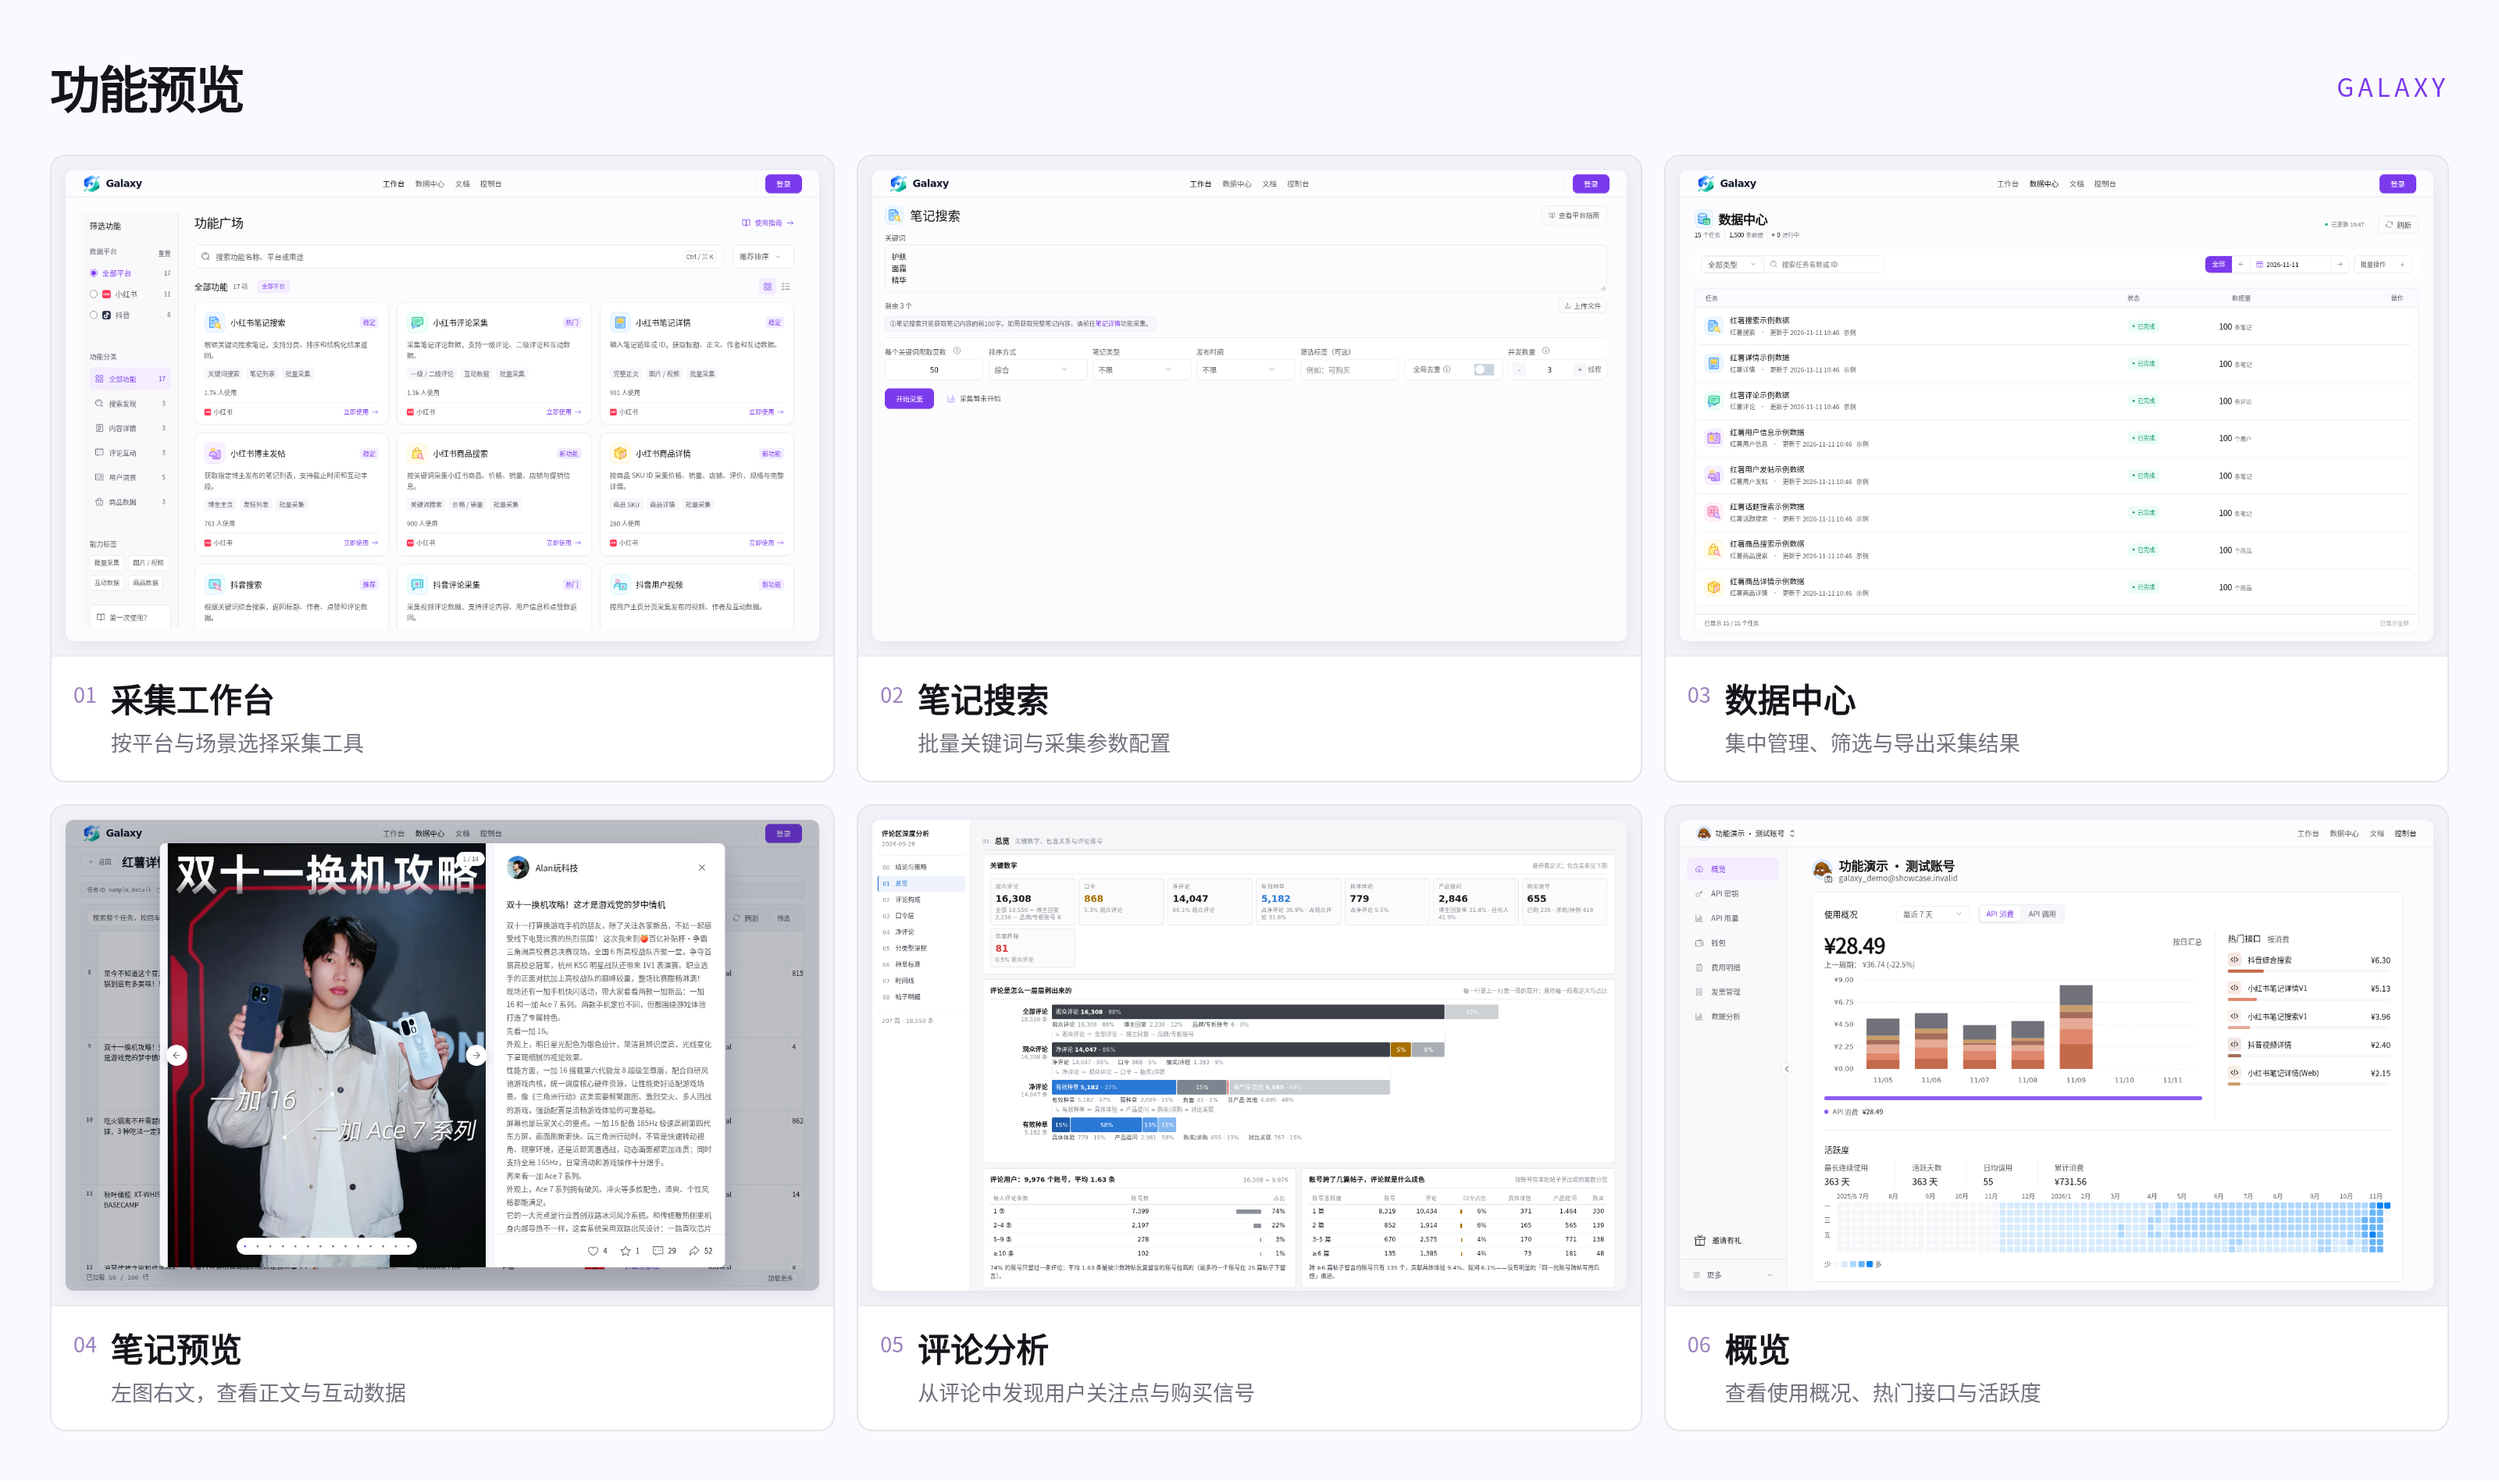
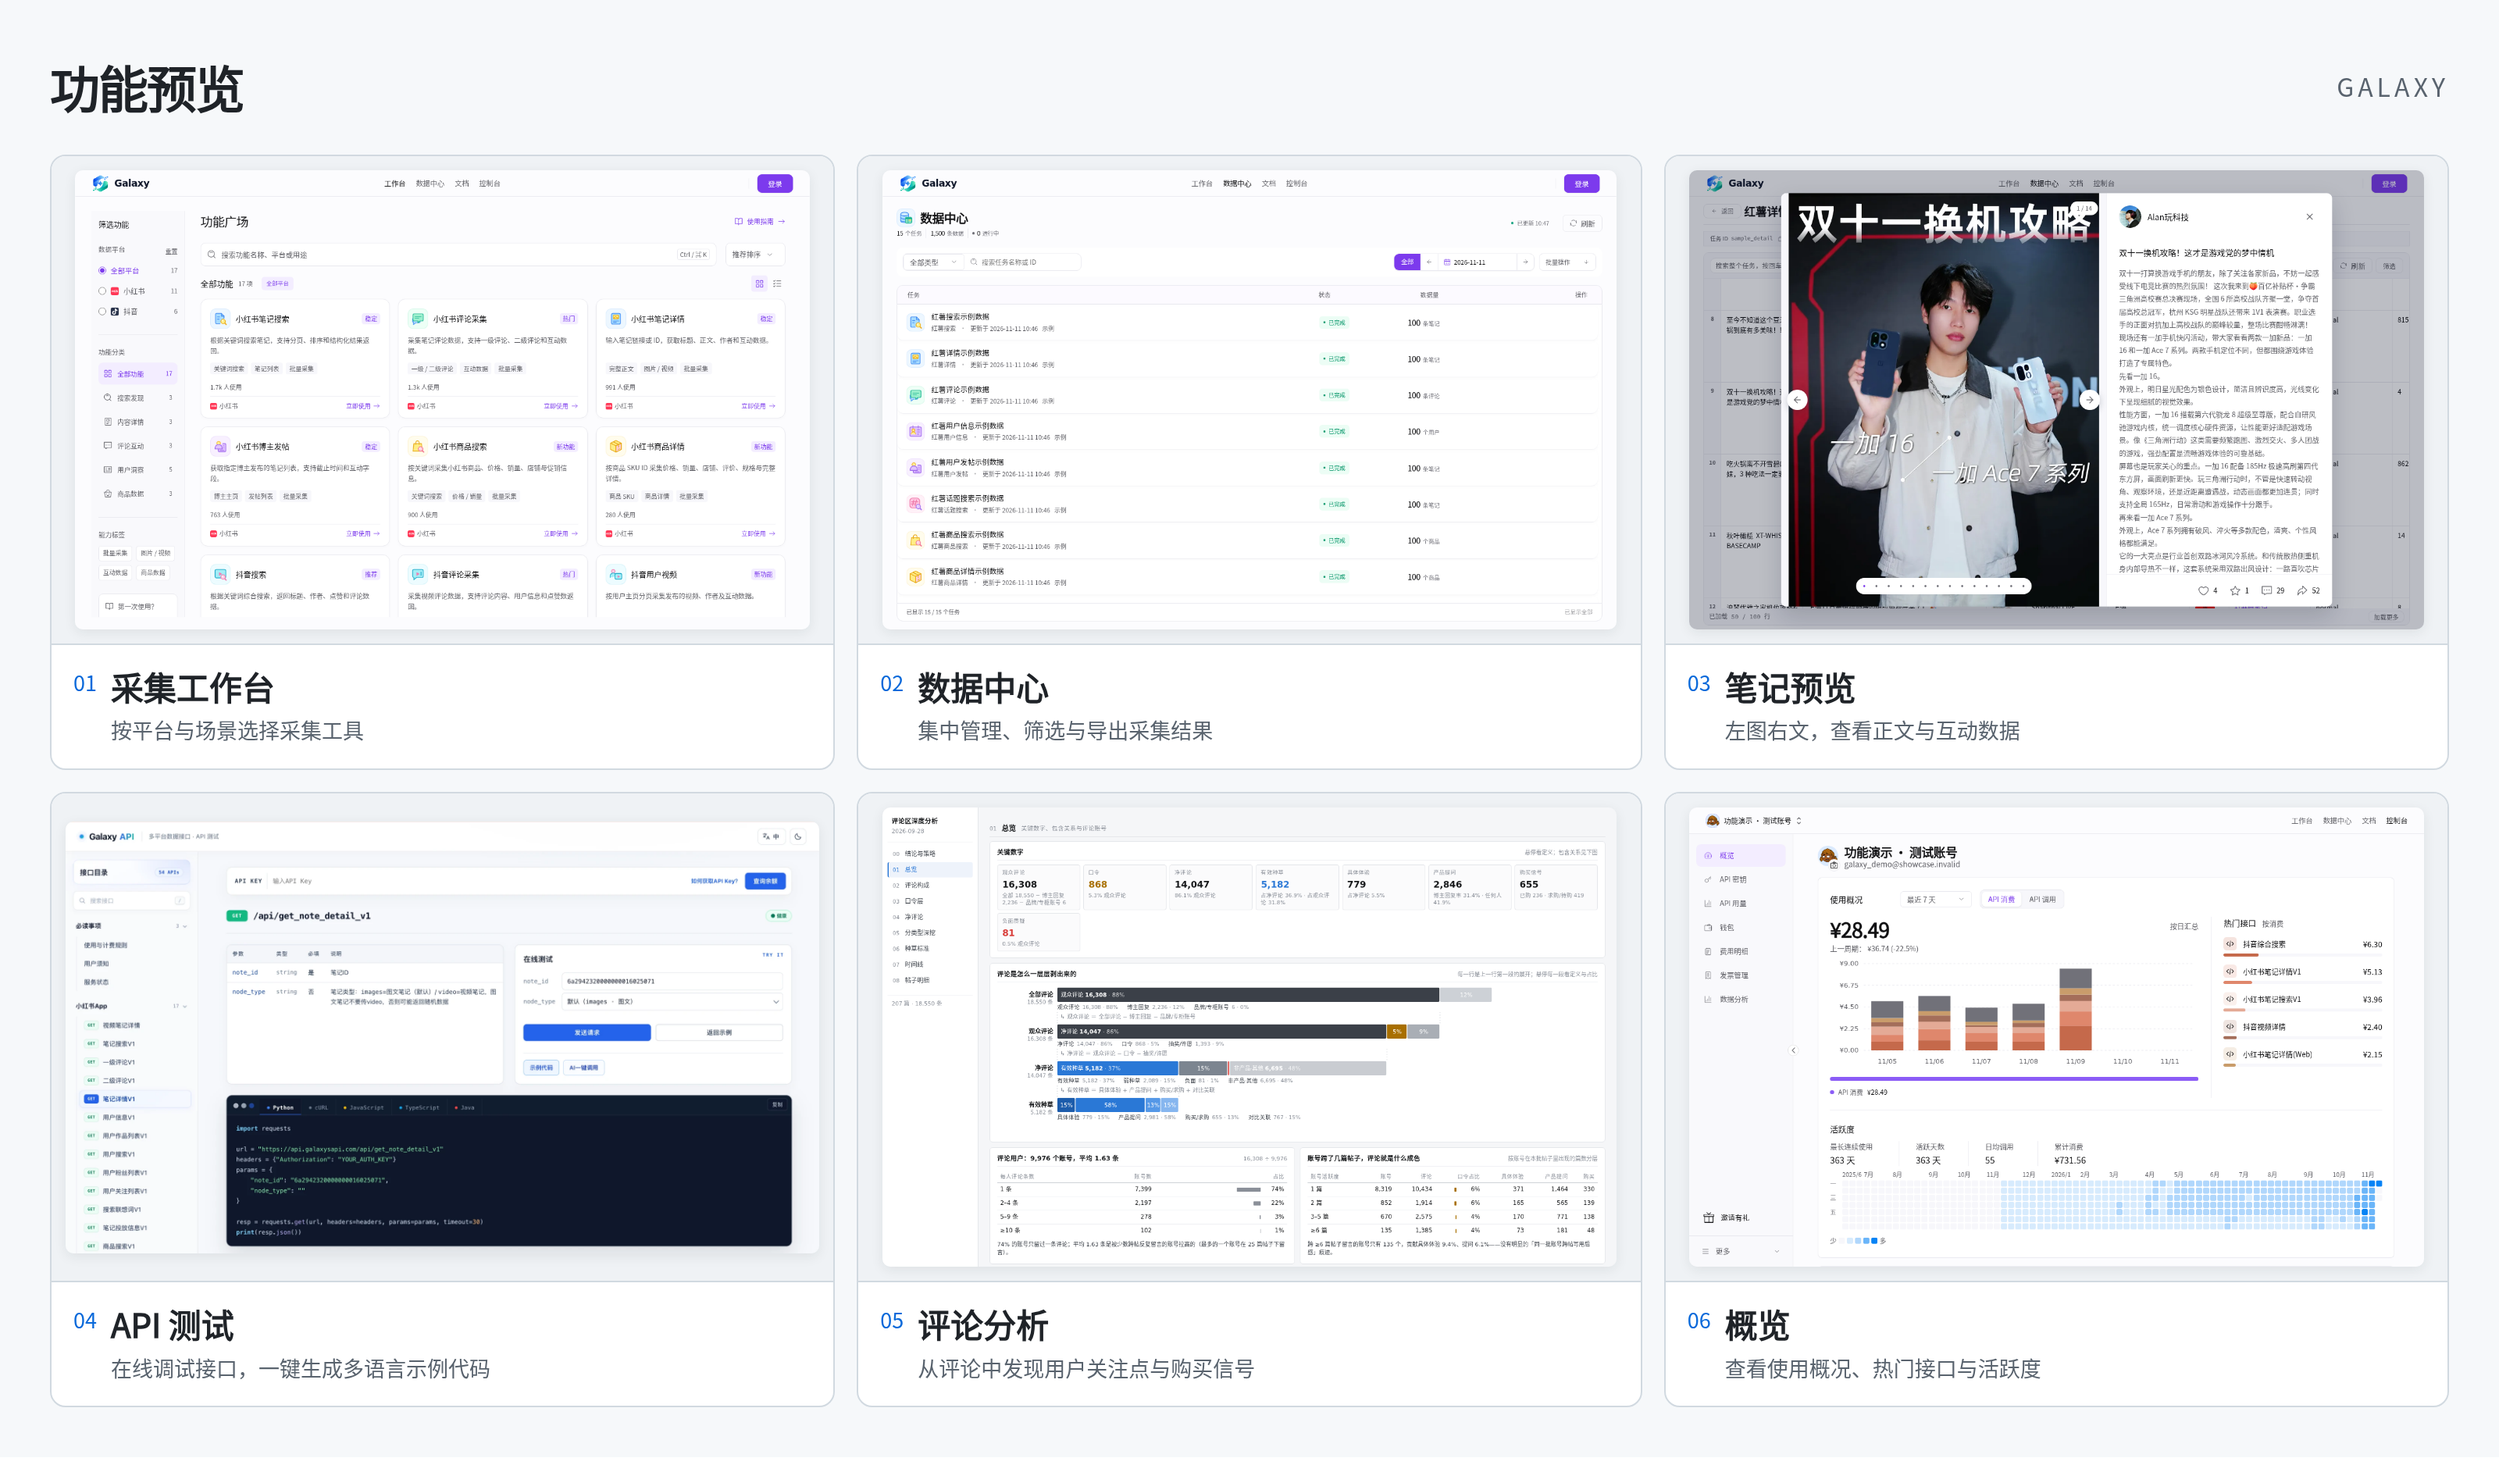
Replace note search panel with API test screenshot and reorder feature preview

diff --git a/README.en.md b/README.en.md
@@ -16,7 +16,7 @@
 
 ## 🖼 Product interface
 
-[![Galaxy API screenshots: workbench, note search, Data Center, note preview, comment analysis, overview](assets/screenshots/platform-overview.png)](assets/screenshots/platform-overview.png)
+[![Galaxy API screenshots: workbench, Data Center, note preview, API test, comment analysis, overview](assets/screenshots/platform-overview.png)](assets/screenshots/platform-overview.png)
 
 <sub>Production platform (Chinese UI). Data Center and note preview use public samples; the overview uses a demo account. <a href="docs/platform.md">Platform details →</a></sub>
 

diff --git a/README.md b/README.md
@@ -16,7 +16,7 @@
 
 ## 🖼 产品界面
 
-[![Galaxy API 平台截图：采集工作台、笔记搜索、数据中心、笔记预览、评论分析、概览](assets/screenshots/platform-overview.png)](assets/screenshots/platform-overview.png)
+[![Galaxy API 平台截图：采集工作台、数据中心、笔记预览、API 测试、评论分析、概览](assets/screenshots/platform-overview.png)](assets/screenshots/platform-overview.png)
 
 <sub>数据中心与笔记预览为平台公开示例，概览为演示账号。<a href="docs/platform.md">平台功能详解 →</a></sub>
 
